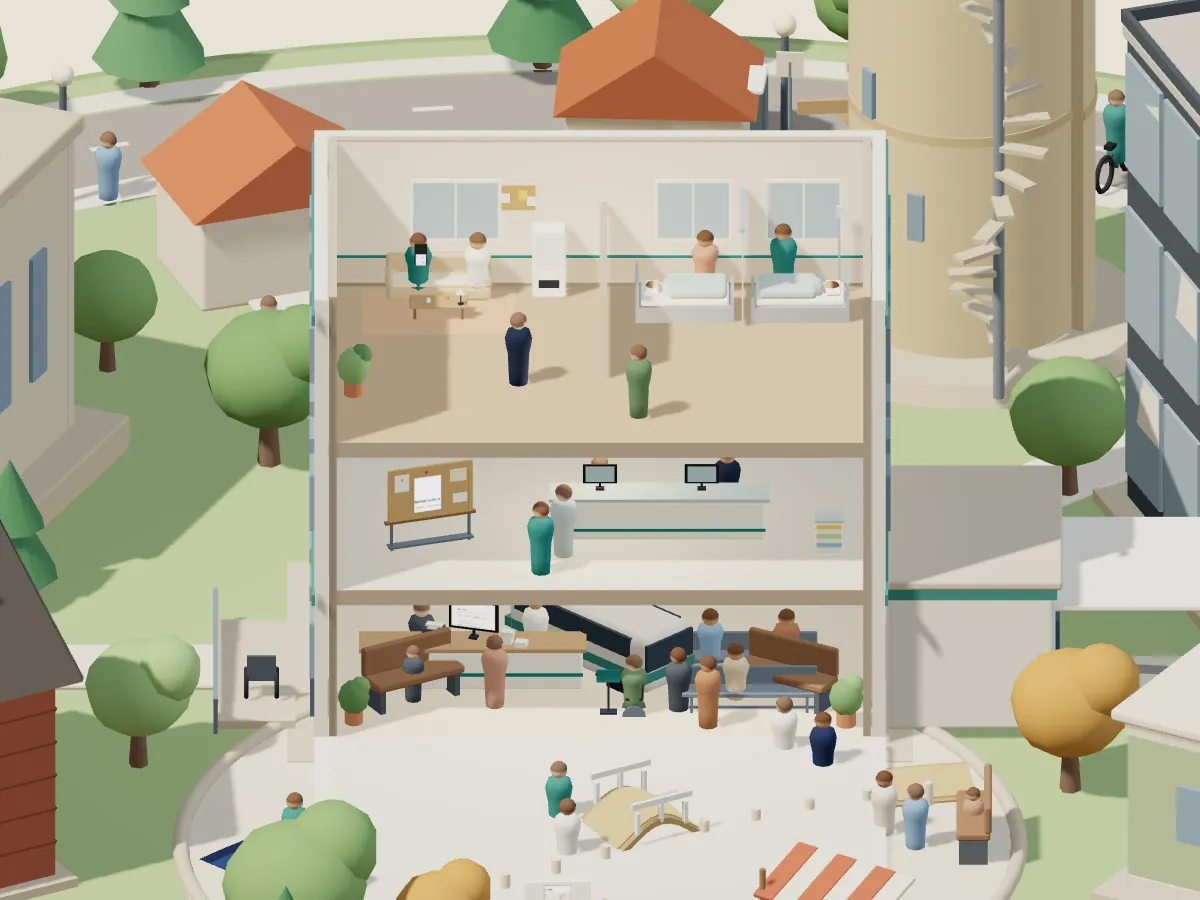
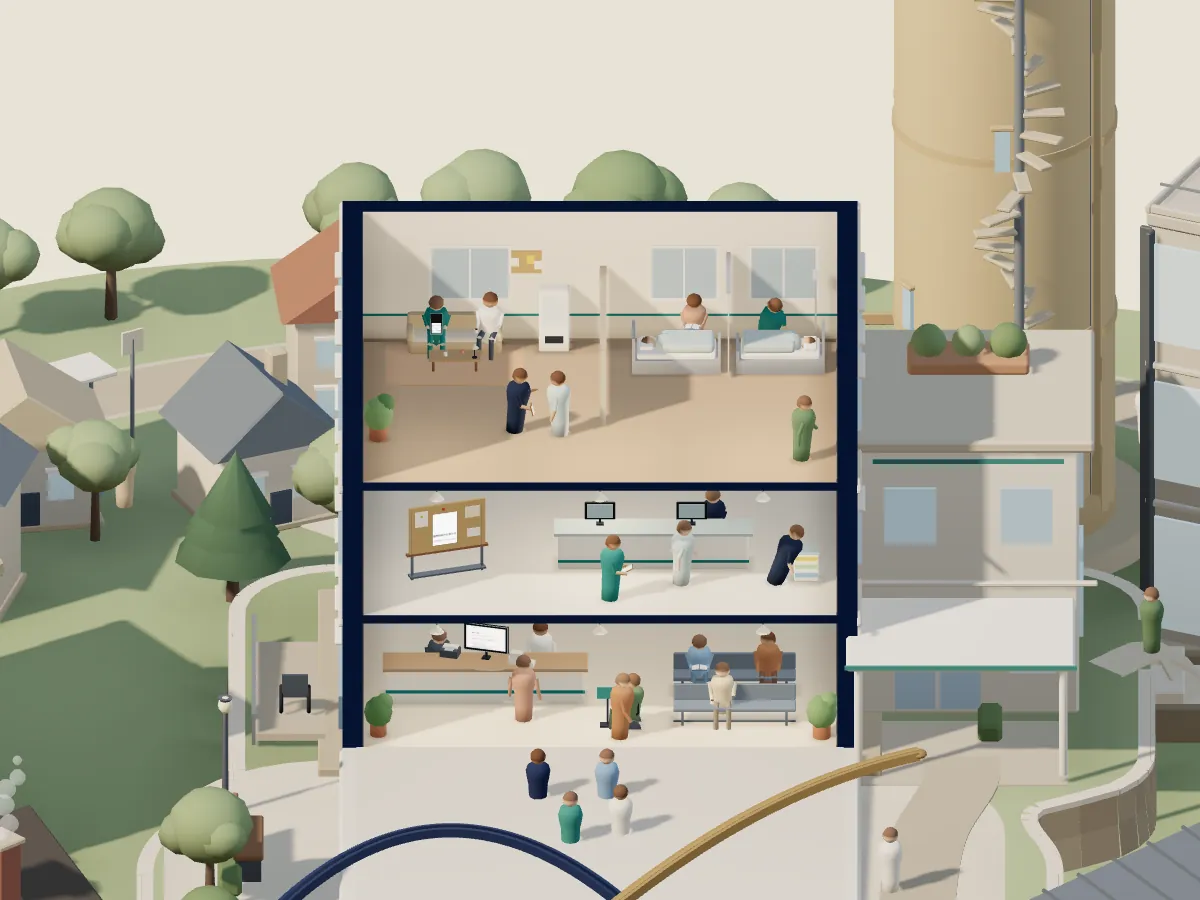
wip(top): 「ひらく町」磨き込み 建物の中の第2回と止めた画像(途中保存)
- 中の人にひじ・腿・すね・持ち物、上に階がある階の天井の灯り、画面の縁、展望台の道具を大きく
- 切り口は部屋の縁の細い藍の線と淡い面に

Claude-Session: https://claude.ai/code/session_016dwt5JPBcjN3XLYgLUEaNS

diff --git a/proto/top-ad/hiraku2/index.html b/proto/top-ad/hiraku2/index.html
@@ -30,7 +30,7 @@
   --jp:'BIZ UDPGothic','Hiragino Sans','Noto Sans JP',sans-serif;
   --en:'Barlow','Helvetica Neue',Arial,sans-serif;
   --ease:cubic-bezier(.2,.8,.2,1);
-  --cl:5.3;--cr:87.7;--ct:2.2;--cb:68.1;
+  --cl:5.3;--cr:84.2;--ct:2.2;--cb:68.1;
 }
 *,*::before,*::after{box-sizing:border-box}
 html{-webkit-text-size-adjust:100%;background:var(--paper)}
@@ -81,7 +81,7 @@ html:not(.js) #poster{display:none}
 #world{position:absolute;inset:0;width:100%;height:100%;opacity:0;transition:opacity .5s var(--ease);touch-action:pan-y;-webkit-tap-highlight-color:transparent}
 html.live #world{opacity:1}
 .still{position:absolute;aspect-ratio:1600/1440;left:50%;transform:translateX(-50%);pointer-events:none}
-.still .poster{position:absolute;inset:0;width:100%;height:100%;transition:opacity .5s var(--ease)}
+.still .poster{position:absolute;inset:0;width:100%;height:100%;transition:opacity .5s var(--ease);-webkit-mask-image:linear-gradient(180deg,#000 86%,transparent);mask-image:linear-gradient(180deg,#000 86%,transparent)}   /* 島の下の雲が、止めた画像の下の端で切れて見えないように */
 html.live .still .poster{opacity:0}
 
 /* 言葉と入口(町の邪魔をしない) */
@@ -140,11 +140,11 @@ html:not(.js) .hit{outline:0}
 /* 最初の訪問だけ: 病院の足もとに柔らかい輪と「ふれてみる」。押した瞬間: 押した建物の足もとに輪 */
 .nudge{position:absolute;left:0;top:0;width:0;height:0;transition:opacity .5s var(--ease)}
 .nudge.gone{opacity:0}
-.nr{position:absolute;left:-50px;top:-26px;width:100px;height:52px;border-radius:50%;border:3px solid #E9D19A;box-shadow:0 0 0 1px rgba(22,35,62,.55),inset 0 0 0 1px rgba(22,35,62,.4),0 0 16px rgba(255,236,190,.65);opacity:0;transform:scale(.3);animation:nr 2.8s cubic-bezier(.2,.7,.3,1) infinite}
+.nr{position:absolute;left:-40px;top:-21px;width:80px;height:42px;border-radius:50%;border:3px solid #E9D19A;box-shadow:0 0 0 1px rgba(22,35,62,.55),inset 0 0 0 1px rgba(22,35,62,.4),0 0 16px rgba(255,236,190,.65);opacity:0;transform:scale(.3);animation:nr 2.8s cubic-bezier(.2,.7,.3,1) infinite}
 .nr.n2{animation-delay:1.4s}
 @keyframes nr{0%{opacity:0;transform:scale(.3)}14%{opacity:.95}100%{opacity:0;transform:scale(1.45)}}
-.nt{position:absolute;left:0;top:34px;transform:translate(-50%,0);padding:6px 11px 7px;border-radius:999px;background:#fff;color:var(--ink);font-size:12.5px;font-weight:700;letter-spacing:.06em;white-space:nowrap;box-shadow:0 6px 18px -8px rgba(0,0,0,.45)}
-.nt::after{content:'';position:absolute;left:50%;top:-4px;width:8px;height:8px;margin-left:-4px;background:#fff;transform:rotate(45deg);border-radius:1px}
+.nt{position:absolute;left:0;top:-30px;transform:translate(-50%,-100%);padding:6px 11px 7px;border-radius:999px;background:#fff;color:var(--ink);font-size:12.5px;font-weight:700;letter-spacing:.06em;white-space:nowrap;box-shadow:0 6px 18px -8px rgba(0,0,0,.45)}
+.nt::after{content:'';position:absolute;left:50%;bottom:-4px;width:8px;height:8px;margin-left:-4px;background:#fff;transform:rotate(45deg);border-radius:1px}
 html[data-tod="night"] .nr{border-color:#FFDCA2;box-shadow:0 0 0 1px rgba(8,12,28,.6),0 0 20px rgba(255,210,150,.6)}
 .pring{position:absolute;margin:-24px 0 0 -46px;width:92px;height:48px;border-radius:50%;border:3px solid #F1DCA8;box-shadow:0 0 0 1px rgba(22,35,62,.5),0 0 18px rgba(255,236,190,.75);pointer-events:none;animation:pr .7s cubic-bezier(.15,.7,.3,1) forwards}
 @keyframes pr{0%{opacity:1;transform:scale(.35)}70%{opacity:.6}100%{opacity:0;transform:scale(1.7)}}
@@ -267,7 +267,7 @@ html.js .pair.armed .open{clip-path:inset(0 0 100% 0)}
   .eyebrow{font-size:11.5px;gap:8px}
   h1{margin-top:6px;font-size:clamp(22px,6.2vw,24px);line-height:1.34}
   /* 町の大きさは、撮った画像の中の建物の群れ(--cl〜--cr)が画面の幅の 98% になるように。高さが足りないときは、高さで決める */
-  .hero{--top0:max(136px,calc(150px + (100svh - 844px) * .35));--bot0:150px}   /* 背の高い画面では、町を少し下げて、下の空きを減らす */
+  .hero{--top0:max(136px,calc(150px + (100svh - 700px) * .45));--bot0:150px}   /* 背の高い画面では、町を下げて、入口との間の空きを減らす */
   .still{--W:min(calc(98vw * 100 / (var(--cr) - var(--cl))),calc((100svh - var(--top0) - var(--bot0)) * 100 / ((var(--cb) - var(--ct)) * .9)));width:var(--W);left:calc(50% - var(--W) * (var(--cl) + var(--cr)) / 200);transform:none;top:calc(var(--top0) + env(safe-area-inset-top,0px) - var(--W) * .9 * var(--ct) / 100)}
   .cta-wrap{left:var(--pad);right:var(--pad);bottom:calc(16px + env(safe-area-inset-bottom,0px))}
   .ctrl{margin-left:0}
@@ -289,7 +289,9 @@ html.js .pair.armed .open{clip-path:inset(0 0 100% 0)}
   .closing .sec-in{grid-template-columns:minmax(0,1fr)}
 }
 @media (max-width:899px) and (max-height:700px){.eyebrow{display:none}h1{margin-top:0}.hero{--top0:112px;--bot0:128px}}
-@media (max-width:374px){.menu .mt{display:none}.menu{padding:0 11px}.logo{gap:9px}.logo svg{width:42px}.logo b{font-size:13.5px;letter-spacing:.28em}}
+.menu{white-space:nowrap}
+@media (max-width:389px){.menu .mt{display:none}.menu{padding:0 11px}}
+@media (max-width:374px){.logo{gap:9px}.logo svg{width:42px}.logo b{font-size:13.5px;letter-spacing:.28em}}
 @media (max-width:359px){.cta{gap:8px;padding:0 14px;font-size:14px;white-space:nowrap}}
 @media (prefers-reduced-motion:reduce){*,*::before,*::after{transition-duration:0s!important;animation:none!important}}
 
@@ -349,7 +351,7 @@ html.capture body > *:not(#cap){display:none!important}
     <p class="meta">10の質問・約3分・登録不要</p>
   </div>
   <nav class="hits" id="hits" aria-label="町の建物">
-    <a class="hit" href="#g-hospital" data-id="hospital" data-tag="49.05,23.8" data-box="37.25,20.3,65.5,47.27" aria-label="病院 — 明日の業務を楽にする"></a>
+    <a class="hit" href="#g-hospital" data-id="hospital" data-tag="49.05,23.8" data-box="37.25,20.3,65.5,47.27" data-nudge="54.22,28.77" aria-label="病院 — 明日の業務を楽にする"></a>
     <a class="hit" href="#g-observatory" data-id="observatory" data-tag="62.51,5.83" data-box="54.83,3.19,70.2,40.09" aria-label="展望台 — キャリア・経験を整理する"></a>
     <a class="hit" href="#g-clinic" data-id="clinic" data-tag="70.97,52.89" data-box="62.02,48.98,80.69,68.1" aria-label="クリニック — 医療経営を学ぶ"></a>
     <a class="hit" href="#g-office" data-id="office" data-tag="74.44,21.16" data-box="66.31,17.29,82.57,44.65" aria-label="事務所 — 経営・管理の実務に使う"></a>

diff --git a/proto/top-ad/hiraku2/interiors.js b/proto/top-ad/hiraku2/interiors.js
@@ -45,6 +45,7 @@ const BASE = {
   people: ['#4E9C96', '#2E3E5C', '#F3F2EE', '#9AA3AD', '#D8C7A8', '#7E9CC4', '#5D7F70', '#F3F2EE'], skin: ['#F0D2BC', '#E4BE9F', '#C99D7F']
 };
 const mix = (a, b, t) => '#' + new THREE.Color(a).lerp(new THREE.Color(b), t).getHexString();
+const enc = x => x <= .0031308 ? 12.92 * x : 1.055 * Math.pow(x, 1 / 2.4) - .055;   // 光の量 → 画面の色の値(にじみの枠は値のまま足すため)
 function makePalette(p) {
   const outer = !!(p && p.wallIn);
   const P = Object.assign({}, BASE, outer ? {} : p || {});
@@ -421,6 +422,8 @@ export function buildInterior(kind, box, ctx = {}) {
   const hlGeo = E.HL.geometry();
   // 色だけを足し、透明度は変えない(空に重なる所で、キャンバスに黒い跡を残さない)
   const hlMat = new THREE.MeshBasicMaterial({ vertexColors: true, transparent: true, depthWrite: false, toneMapped: false, blending: THREE.CustomBlending, blendEquation: THREE.AddEquation, blendSrc: THREE.OneFactor, blendDst: THREE.OneFactor, blendSrcAlpha: THREE.ZeroFactor, blendDstAlpha: THREE.OneFactor });
+  // 足す量は画面の色の値のまま(色空間の変換をしない)。変換すると小さい値が急に明るくなり、にじみの外の縁が線に見え、内の縁は白く飛ぶ
+  hlMat.onBeforeCompile = sh => { sh.fragmentShader = sh.fragmentShader.replace('#include <colorspace_fragment>', ''); };
   const hlMesh = hlGeo ? new THREE.Mesh(hlGeo, hlMat) : null; if (hlMesh) { hlMesh.renderOrder = 2; hlMesh.frustumCulled = false; group.add(hlMesh); }
   const hlBase = hlGeo ? hlGeo.attributes.position.array.slice() : null, hlCol = hlGeo ? hlGeo.attributes.color.array.slice() : null;
   let nightK = 0;
@@ -454,7 +457,7 @@ export function buildInterior(kind, box, ctx = {}) {
     }
     if (hlGeo && s.hl) {
       // 画面は昼もわずかに、夜はもう少し光る。ふれた物は、紙や板でも柔らかく光る
-      const glowK = clamp01(s.on) * (s.glass ? lerp(0, .1, nightK) : 0) * (1 - s.flick * 2) + .3 * k + .12 * (s.hoverK || 0);
+      const glowK = clamp01(s.on) * (s.glass ? lerp(0, .15, nightK) : 0) * (1 - s.flick * 2) + .5 * k + .32 * (s.hoverK || 0);
       const Pp = hlGeo.attributes.position.array, Cc = hlGeo.attributes.color.array;
       for (let v = s.hl[0]; v < s.hl[1]; v++) { Pp[v * 3] = hlBase[v * 3] + dx; Pp[v * 3 + 1] = hlBase[v * 3 + 1] + dy; Pp[v * 3 + 2] = hlBase[v * 3 + 2] + dz; Cc[v * 3] = hlCol[v * 3] * glowK; Cc[v * 3 + 1] = hlCol[v * 3 + 1] * glowK; Cc[v * 3 + 2] = hlCol[v * 3 + 2] * glowK; }
       hlGeo.attributes.position.needsUpdate = true; hlGeo.attributes.color.needsUpdate = true;
@@ -508,7 +511,7 @@ export function buildInterior(kind, box, ctx = {}) {
     if (E.rings.length && hlGeo) {
       const Pp = hlGeo.attributes.position.array, Cc = hlGeo.attributes.color.array;
       for (const rr of E.rings) {
-        const k = (t * .28 + rr.ph) % 1, sc = rr.r0 + k * rr.r1, c = (1 - k) * (1 - k) * .6;
+        const k = (t * .28 + rr.ph) % 1, sc = rr.r0 + k * rr.r1, c = enc((1 - k) * (1 - k) * .6);
         for (let v = rr.v[0]; v < rr.v[1]; v++) { Pp[v * 3] = rr.x + hlBase[v * 3] * sc; Pp[v * 3 + 1] = rr.y; Pp[v * 3 + 2] = rr.z + hlBase[v * 3 + 2] * sc; Cc[v * 3] = Cc[v * 3 + 1] = Cc[v * 3 + 2] = c; }
       }
       hlGeo.attributes.position.needsUpdate = true; hlGeo.attributes.color.needsUpdate = true;
@@ -827,9 +830,9 @@ function haloGeo(w, h, m, g, c) {
   if (HALO.has(key)) return HALO.get(key);
   const a = w / 2 + m, b = h / 2 + m, pos = [], cl = [];
   const ring = d => [[-a - d, -b - d], [a + d, -b - d], [a + d, b + d], [-a - d, b + d]];
-  const R = [[ring(0), 1], [ring(g * .3), .28], [ring(g), 0]];    // 内の縁から、柔らかく消える
+  const R = [[ring(0), 1], [ring(g * .22), .55], [ring(g * .55), .2], [ring(g), 0]];    // 内の縁から、尾を引いて柔らかく消える
   const put = (v, k) => { pos.push(v[0], v[1], 0); cl.push(c[0] * k, c[1] * k, c[2] * k); };
-  for (let r = 0; r < 2; r++) {
+  for (let r = 0; r < R.length - 1; r++) {
     const [I, ki] = R[r], [O, ko] = R[r + 1];
     for (let i = 0; i < 4; i++) { const j = (i + 1) % 4; put(I[i], ki); put(O[i], ko); put(O[j], ko); put(I[i], ki); put(O[j], ko); put(I[j], ki); }
   }

diff --git a/proto/top-ad/hiraku2/live.js b/proto/top-ad/hiraku2/live.js
@@ -8,6 +8,7 @@
    ・品質の段: 高(画素比2・影2048)/中(画素比1.5・影1024)/低(画素比1・影なし)。重いときは自動で一段下げる
    ================================================================ */
 import { THREE, makeScene, makeLights, applyTod, aimCamera, capFrame, makeRenderer, fit, ELEV, U, LAYOUT, IDS, CAP_W, CAP_H, placePeople, placeVehicles, placeSky, placeSmall, angDiff, plazaFrame, PALETTE } from './world.js';
+import * as WORLD from './world.js';   // makeSceneAsync(段ごとに休みを入れて作る入口)があれば、それを使う
 import { BOXES, WALL } from './buildings.js';
 
 const TAU = Math.PI * 2, deg = d => d * Math.PI / 180, clamp = (v, a, b) => Math.max(a, Math.min(b, v)), clamp01 = v => clamp(v, 0, 1);
@@ -132,7 +133,7 @@ function setStatic(S) {
    ページの中で描く
    o = { canvas, box, safe(): {l,t,r,b}, onHover(id|null), onPick(id), onEmpty(), onPress(id), onStation(sid|null, how), onLayout(L), onOpened(id), onClosed(), tod, mod(Promise<module>) }
    ================================================================ */
-export function live(o) {
+export async function live(o) {
   /* 撮るための手動の時計(?clock=manual)。ふつうは clock() */
   const manual = new URLSearchParams(location.search).get('clock') === 'manual';
   let vnow = 0;
@@ -143,7 +144,9 @@ export function live(o) {
   const DPR = { high: 2, mid: 1.5, low: 1 }, SHADOW = { high: 2048, mid: 1024, low: 0 };
   let tier = DPR[o.quality] ? o.quality : small ? 'mid' : 'high';
   const renderer = makeRenderer(o.canvas, Math.min(devicePixelRatio || 1, DPR[tier]), W, H, false);
-  const S = makeScene({ quality: tier }), L = makeLights(S.scene, SHADOW[tier] || 1024);
+  // 町を作るあいだ主スレッドを長く止めないよう、分けて作る入口があれば待つ(止めた画像は、そのあいだも見えている)
+  const S = WORLD.makeSceneAsync ? await WORLD.makeSceneAsync({ quality: tier }) : makeScene({ quality: tier });
+  const L = makeLights(S.scene, SHADOW[tier] || 1024);
   if (!SHADOW[tier]) L.sun.castShadow = false;
   const camera = new THREE.OrthographicCamera(-1, 1, 1, -1, .1, 300);
   const CAPF = capFrame(camera);
@@ -219,7 +222,7 @@ export function live(o) {
     let x0 = 1e9, x1 = -1e9, y0 = 1e9, y1 = -1e9;
     for (const p of bd.pts) { const v = p.clone().applyMatrix4(m).applyMatrix4(tmpCam.matrixWorldInverse); x0 = Math.min(x0, v.x); x1 = Math.max(x1, v.x); y0 = Math.min(y0, v.y); y1 = Math.max(y1, v.y); }
     const sf = o.safe(), sw = sf.r - sf.l, shh = sf.b - sf.t;
-    const k = id === 'plaza' ? .84 : id === 'park' ? (small ? 1.12 : .94) : small ? .78 : .76;
+    const k = id === 'plaza' ? .7 : id === 'park' ? (small ? 1.12 : .94) : small ? .78 : .76;
     let ppu = Math.min(sw * k / (x1 - x0), shh * k / (y1 - y0));
     ppu = Math.min(ppu, base.ppu * (id === 'park' ? 6.5 : small ? 4.2 : 3.8));
     const bx = (x0 + x1) / 2, by = (y0 + y1) / 2, scx = (sf.l + sf.r) / 2, scy = (sf.t + sf.b) / 2;
@@ -643,6 +646,8 @@ export function live(o) {
     /* 手動の時計で ms だけ進めて、1枚描く(撮るとき) */
     advance(ms) { const n = Math.max(1, Math.round(ms / (1000 / 60))); for (let i = 0; i < n; i++) { vnow += ms / n; frame(vnow, i === n - 1); } },
     get manual() { return manual; },
-    get tier() { return tier; }
+    get tier() { return tier; },
+    /* 撮る・確かめるため: 建物の中の点(その建物の座標)が、いま画面のどこにあるか */
+    screenOf(id, l) { const pl = placeOf(S, id), v = new THREE.Vector3(...l).applyAxisAngle(Y, pl.yaw).add(pl.p).applyAxisAngle(Y, rot.x).project(camera), r = o.canvas.getBoundingClientRect(); return [r.left + (v.x + 1) / 2 * W, r.top + (1 - v.y) / 2 * H]; }
   };
 }

diff --git a/proto/top-ad/hiraku2/hiraku.js b/proto/top-ad/hiraku2/hiraku.js
@@ -275,17 +275,25 @@ function boot() {
   menu.addEventListener('close', () => menuBtn.focus());
 
   /* ---------- 立体と入れ替える(読み込みのあと、手が空いたときに) ---------- */
+  /* 計測: 長いタスク(50ms 超)。止めた画像から立体へ替わる前後(読み込み開始から、替わって 2 秒後まで)で、スクロールやタップが止まる長さ */
+  const swap = { start: 0, live: 0 }, lts = [];
+  try { new PerformanceObserver(l => { for (const e of l.getEntries()) lts.push([Math.round(e.startTime), Math.round(e.duration)]); }).observe({ type: 'longtask', buffered: true }); } catch (e) { /* 使えない環境では測らない */ }
+  window.__lt = () => {
+    const end = swap.live ? swap.live + 2000 : performance.now(), inSwap = lts.filter(([s0, d]) => s0 + d > swap.start && s0 < end);
+    const sum = a => a.reduce((t, [, d]) => t + d, 0);
+    return { count: lts.length, total: sum(lts), max: Math.max(0, ...lts.map(([, d]) => d)), swapStart: Math.round(swap.start), swapLive: Math.round(swap.live), swapCount: inSwap.length, swapTotal: sum(inSwap), swapMax: Math.max(0, ...inSwap.map(([, d]) => d)) };
+  };
   function hasWebGL() { try { const c = document.createElement('canvas'); return !!(window.WebGL2RenderingContext && c.getContext('webgl2')); } catch (e) { return false; } }
   function upgrade() {
     if (reduce() || save || !hasWebGL() || Q.get('static') === '1') return;
-    const t0 = performance.now();
+    const t0 = performance.now(); swap.start = t0;
     const mod = Q.get('stub') === '1' ? import('./interiors-stub.js') : import('./interiors.js').then(m => { if (typeof m.buildInterior !== 'function') throw new Error('no buildInterior'); return m; }).catch(() => import('./interiors-stub.js'));
-    import('./live.js').then(L => {
+    import('./live.js').then(async L => {
       const mem = navigator.deviceMemory || 8, cores = navigator.hardwareConcurrency || 8, saved = store.get('bridge-hiraku-q');
       let quality = Q.get('q') || saved || (phone() ? 'mid' : 'high');
       if (!Q.get('q') && quality === 'high' && (mem <= 4 || cores <= 4)) quality = 'mid';
       if (!Q.get('q') && (mem <= 2 || cores <= 2)) quality = 'low';
-      ctl = L.live({
+      ctl = await L.live({
         canvas, box: still, tod: TODS.indexOf(R.dataset.tod), mod, reduce, quality,
         safe() {
           const w = canvas.clientWidth, h = canvas.clientHeight;
@@ -314,7 +322,7 @@ function boot() {
         onOpened() {},
         onClosed() {}
       });
-      window.__ctl = ctl; window.__t3 = Math.round(performance.now() - t0);
+      window.__ctl = ctl; window.__t3 = Math.round(performance.now() - t0); swap.live = performance.now();
       if (paused) ctl.setPaused(true);
       requestAnimationFrame(() => R.classList.add('live'));
     }).catch(err => console.warn(err));

diff --git a/proto/top-ad/hiraku2/lab/interiors.html b/proto/top-ad/hiraku2/lab/interiors.html
@@ -35,7 +35,7 @@ body.one h1,body.one p.note,body.one .cap{display:none}
 </head>
 <body>
 <h1>建物の中(interiors.js)の試し場 — 磨き込み</h1>
-<p class="note">ひらいたときと同じ正面から、町と同じ光で見る。外側の壁(切り口の藍を含む)と地面は、この試し場だけの仮のもの。</p>
+<p class="note">ひらいたときと同じ正面から、町と同じ光で見る。外側の壁(切り口は淡い面。?cut=navy で藍)と地面は、この試し場だけの仮のもの。</p>
 <main class="grid" id="grid"></main>
 <script type="module">
 import * as THREE from 'three';
